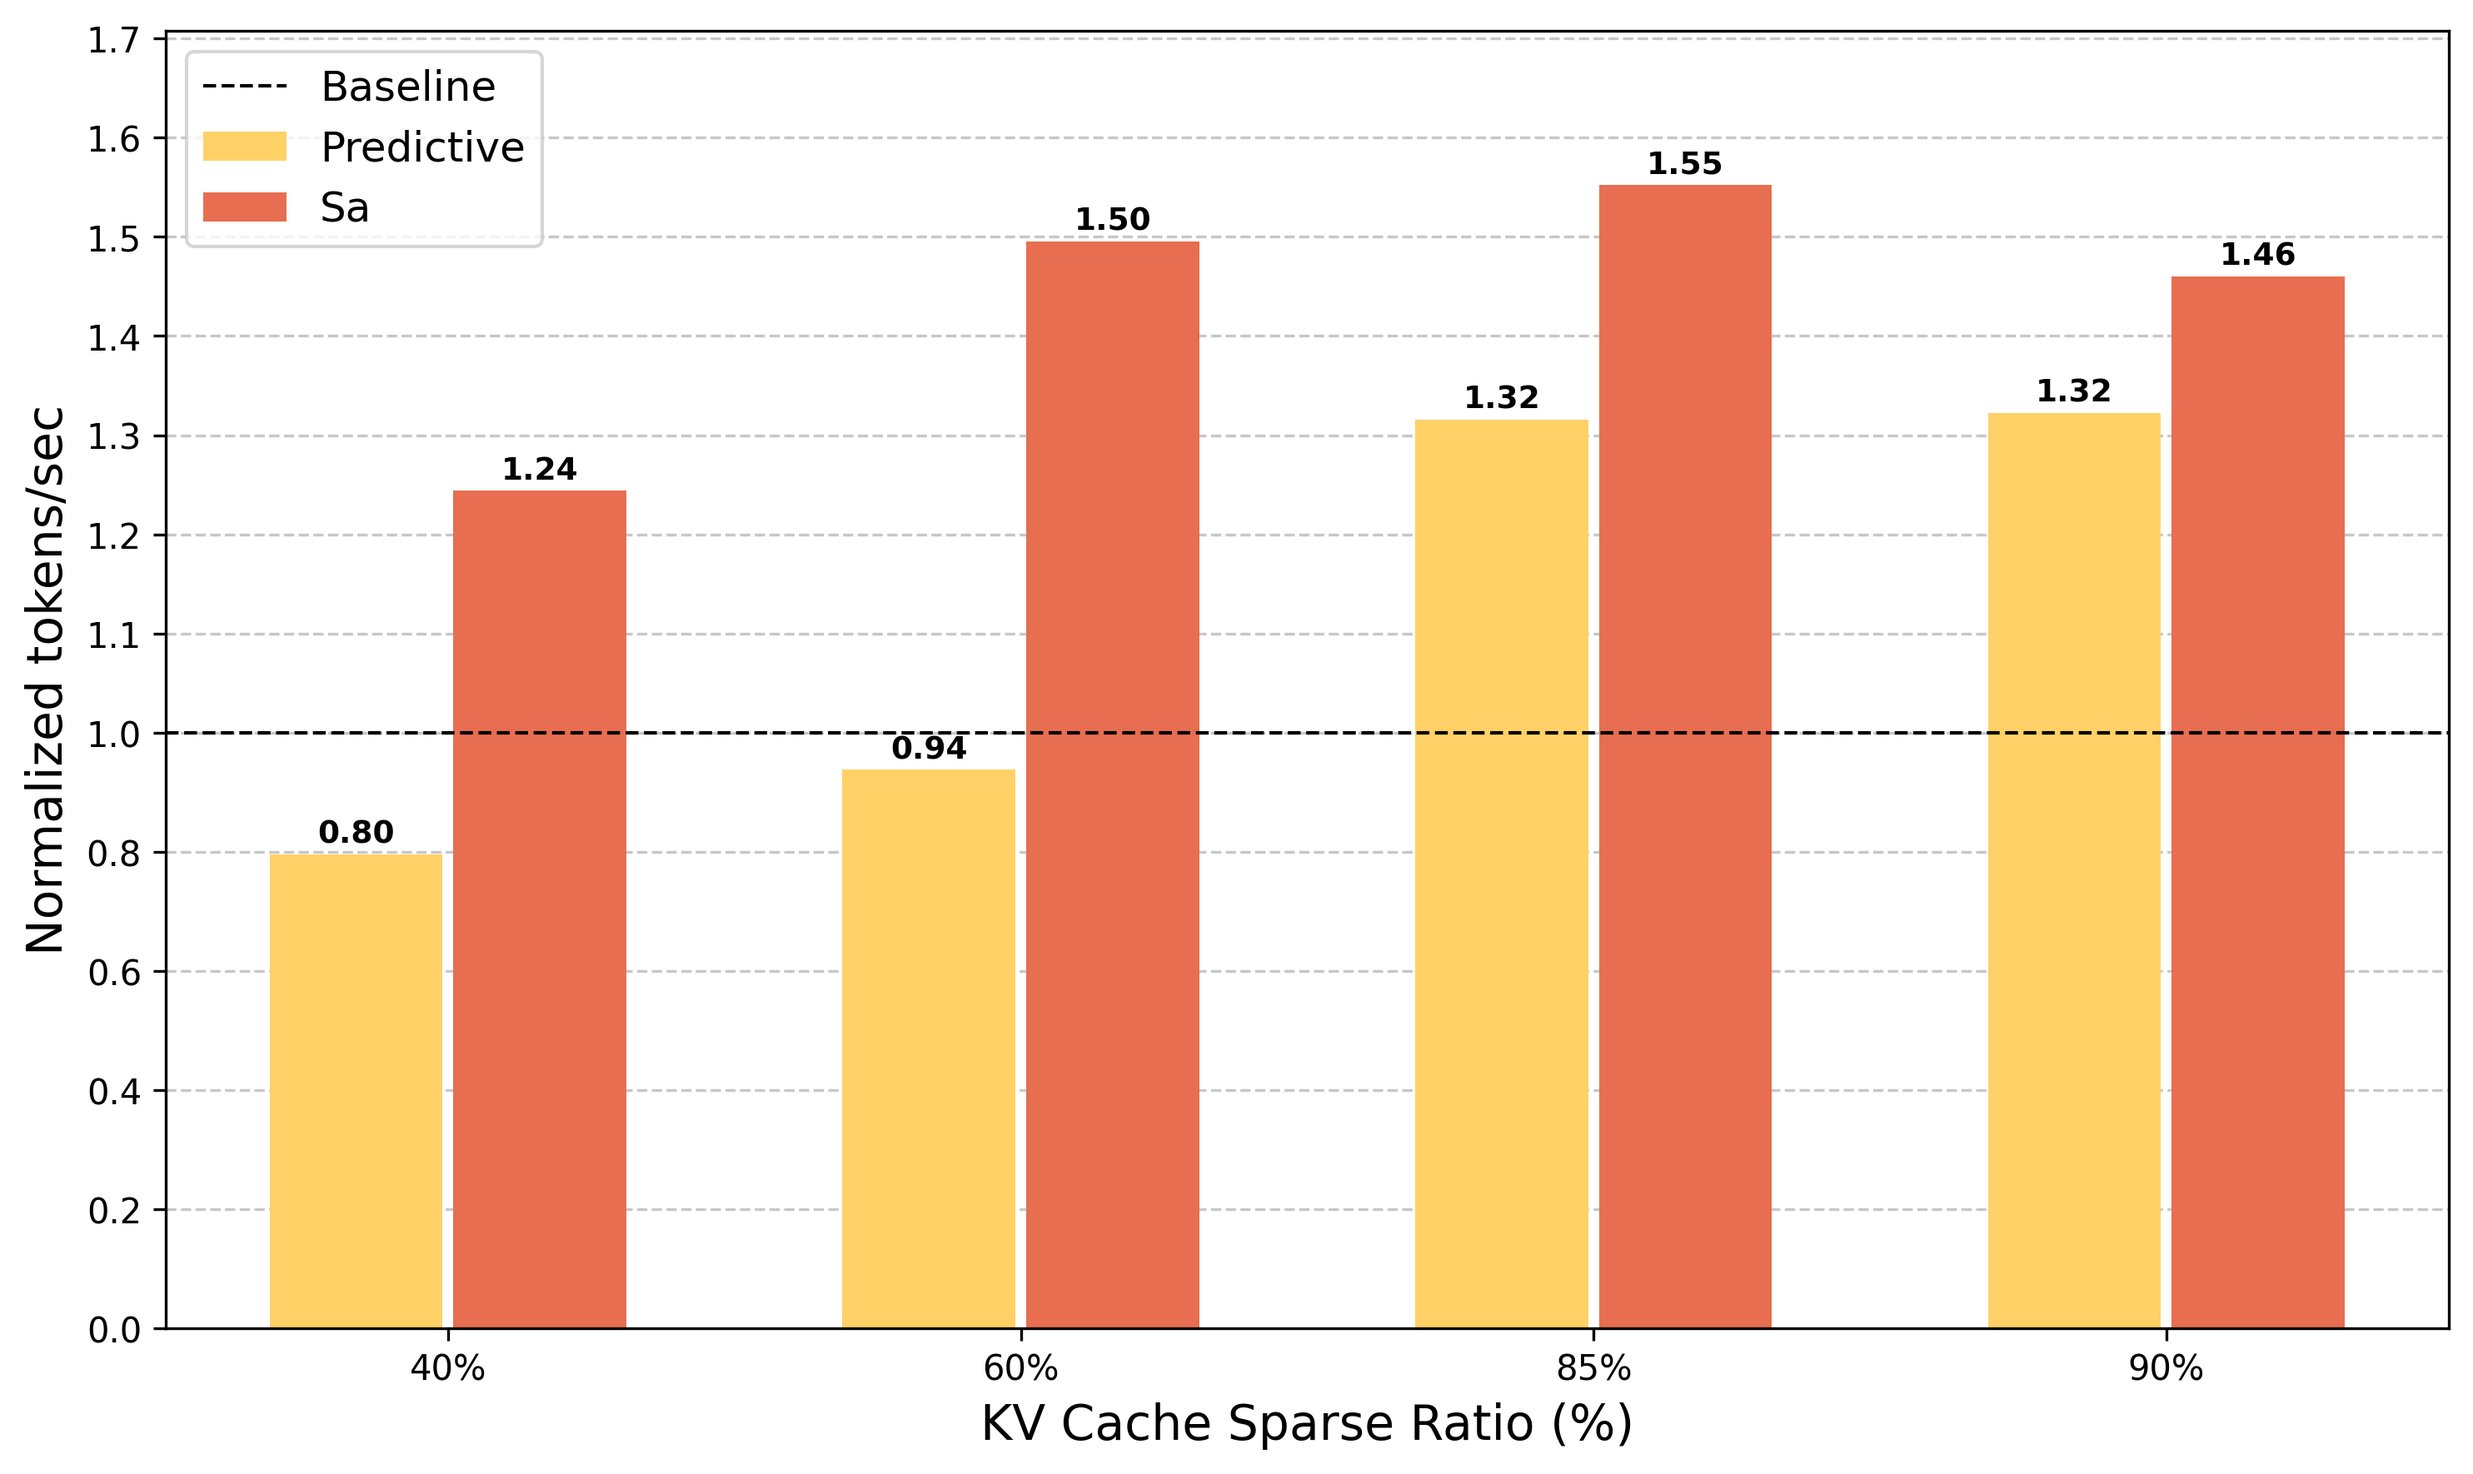
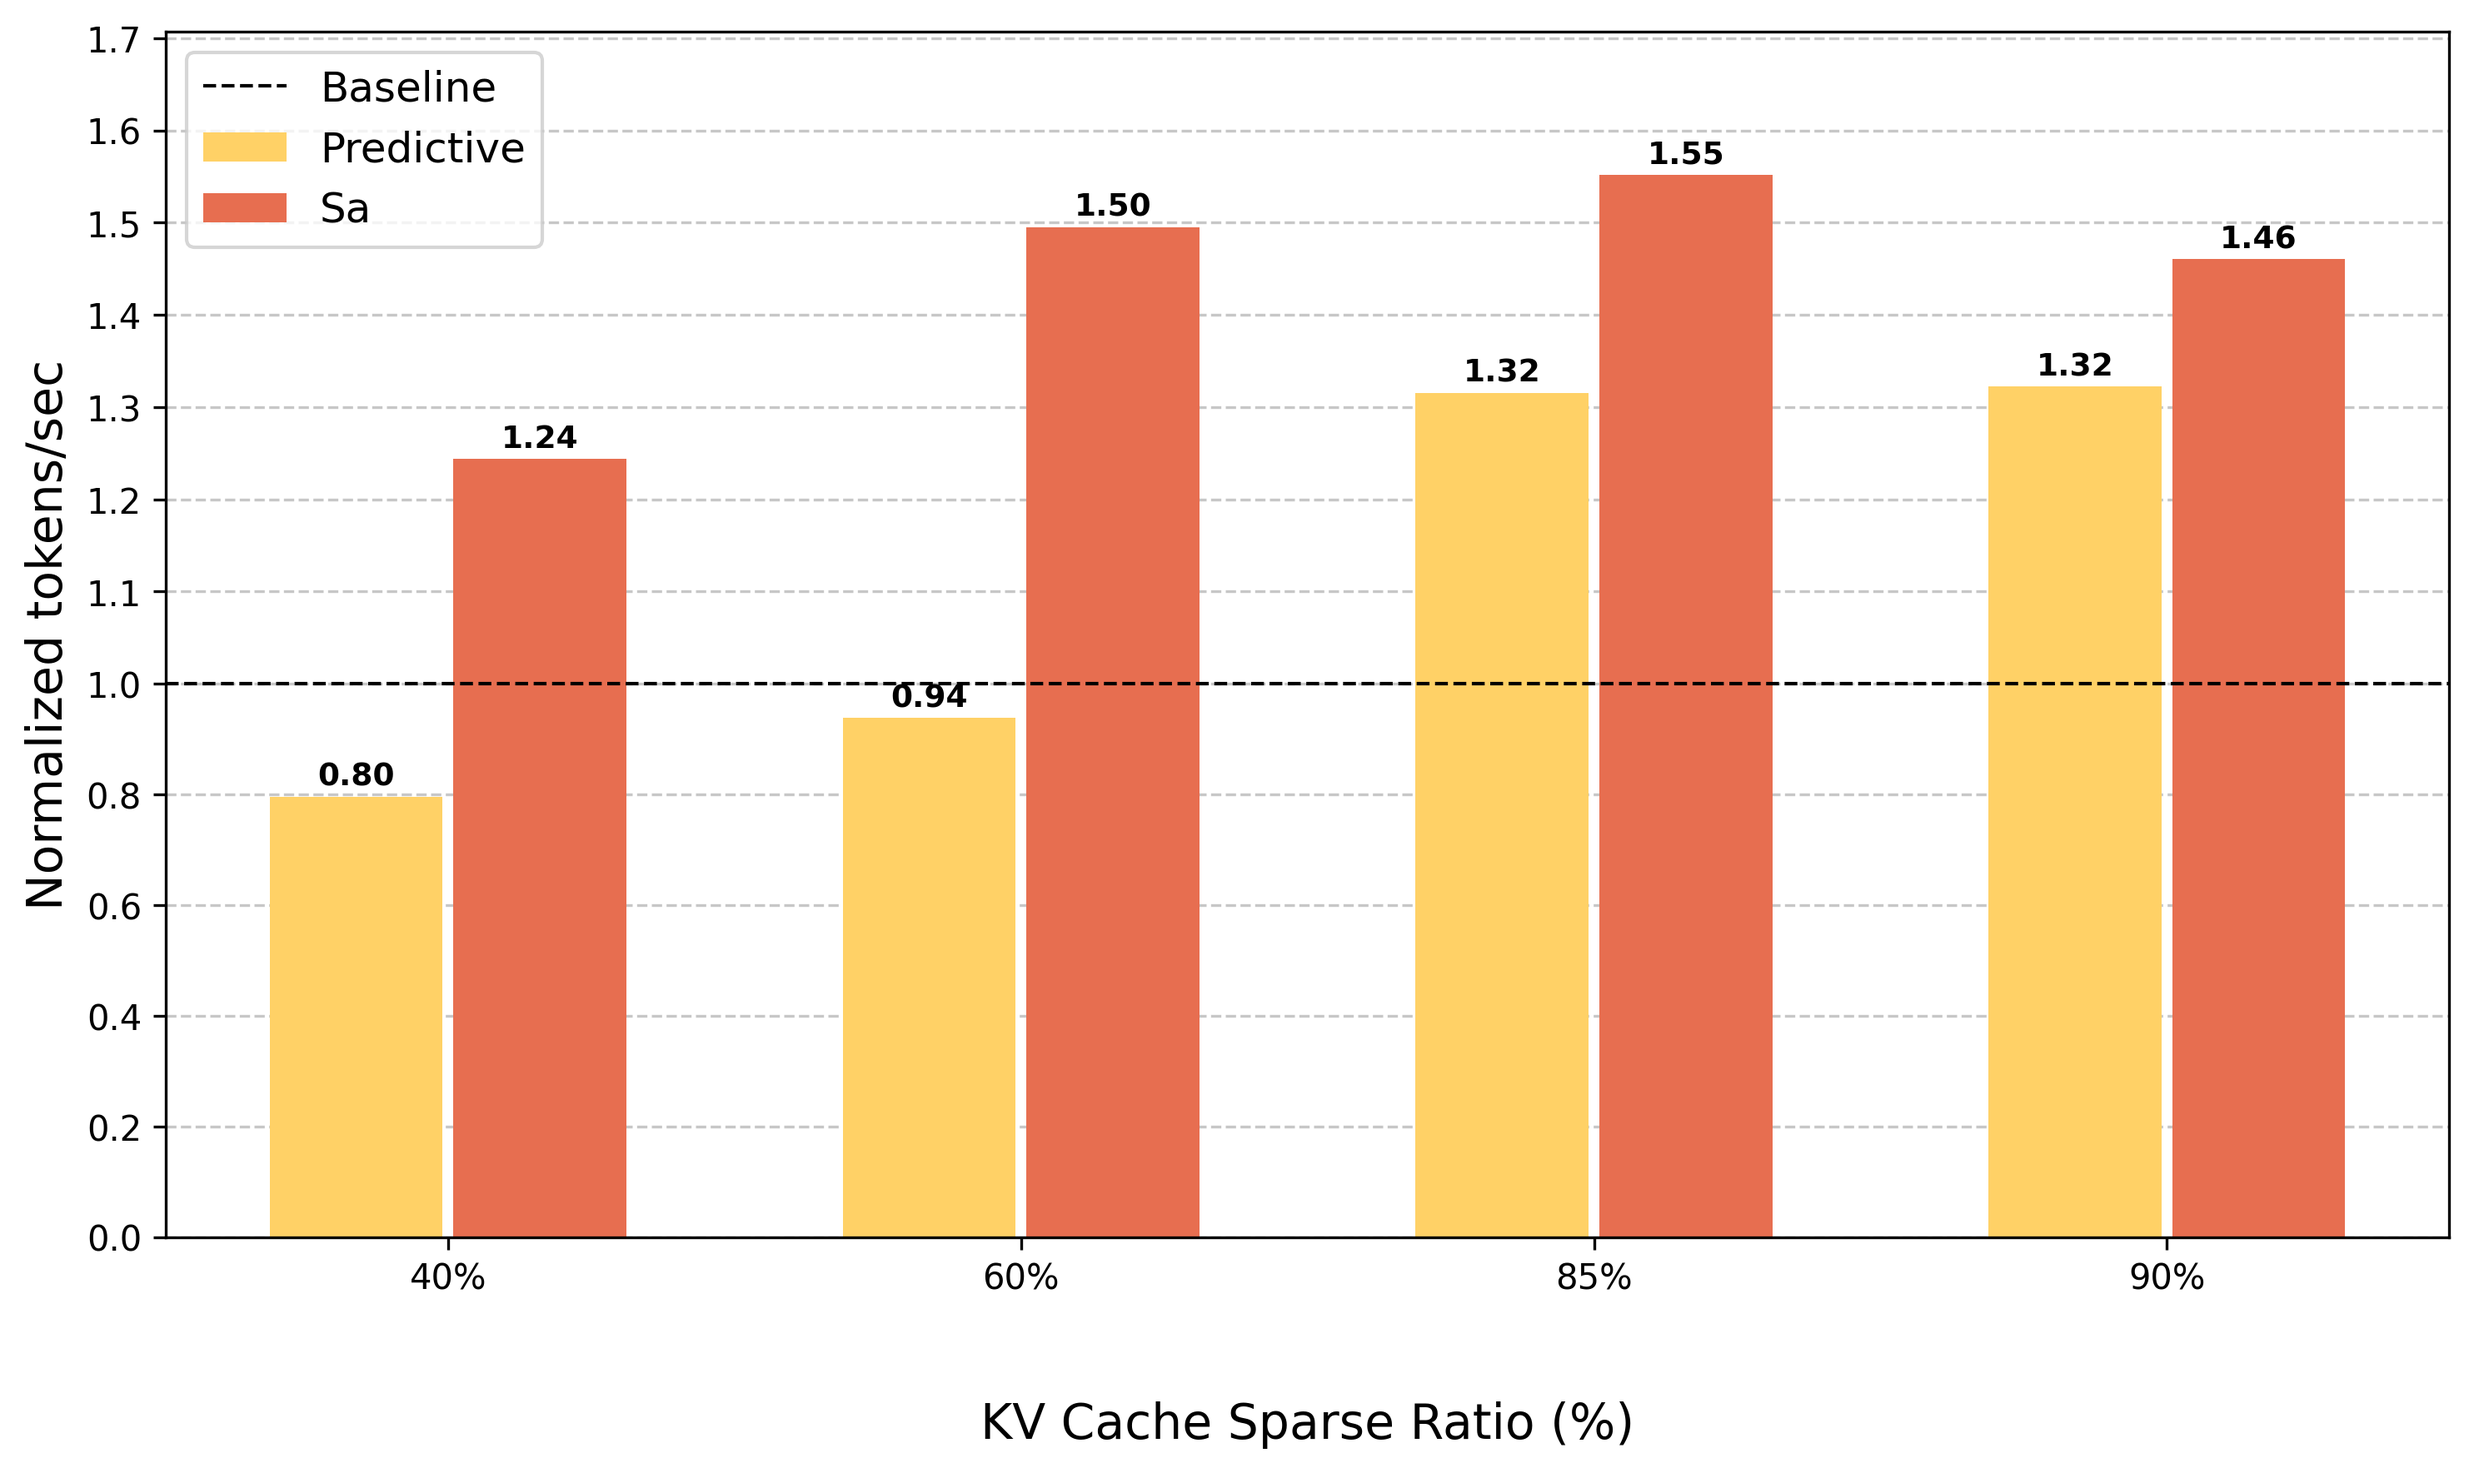
plot update

diff --git a/plot_scripts/plot_bars.py b/plot_scripts/plot_bars.py
@@ -84,7 +84,7 @@ if __name__ == "__main__":
     }
     
     # --- 6) Plotting -----------------------------------
-    plt.figure(figsize=(10, 6), dpi=600)
+    plt.figure(figsize=(10, 6), dpi=300)
     ax = plt.gca()
     
     # bar geometry
@@ -133,7 +133,7 @@ if __name__ == "__main__":
                linewidth=1.0)
         
     # axes labels & ticks
-    ax.set_xlabel('KV Cache Sparse Ratio (%)', fontsize=14)
+    ax.set_xlabel('KV Cache Sparse Ratio (%)', fontsize=14, labelpad=30)
     ax.set_ylabel('Normalized tokens/sec', fontsize=14)
     ax.set_xticks(index)
     ax.set_xticklabels([f"{s}%" for s in sparsities])
@@ -177,5 +177,5 @@ if __name__ == "__main__":
         bar_idx += 1
     
     plt.tight_layout()
-    plt.savefig("inference_throughput_comparison_bar.png", dpi=300, bbox_inches="tight")
+    plt.savefig("infer.png", dpi=300, bbox_inches="tight")
     plt.show()
